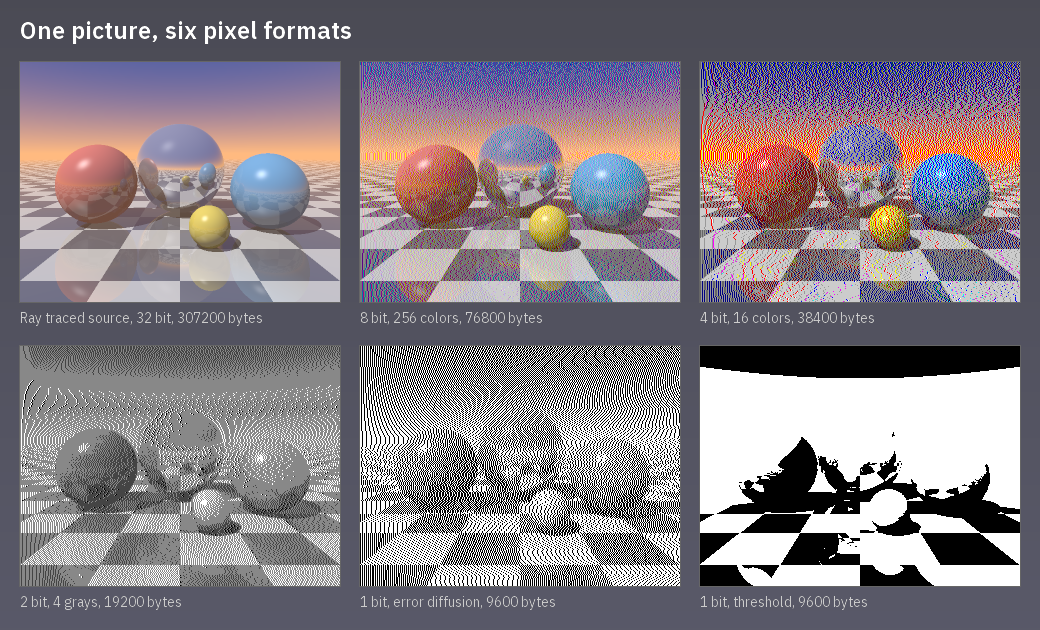
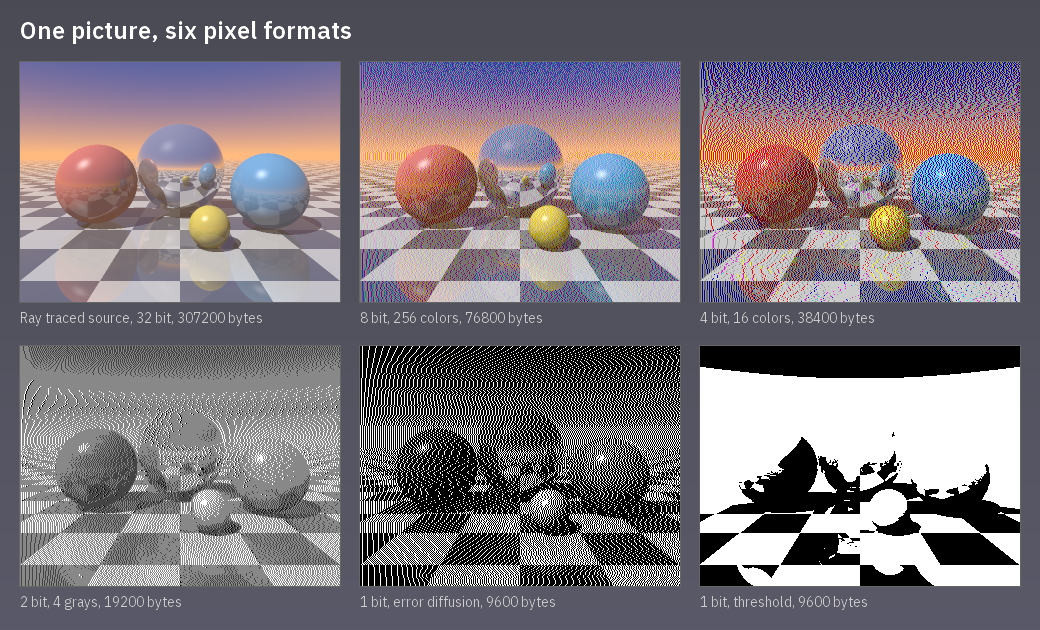
1-bit blit_RGBA_diffused_linear: sum the channel weights
The luminance test multiplied red by green (Rl * 2 * +Gl * 3), so a
pixel without red or without green never reached white. Add a
regression test, and use the linear diffusion for the 1-bit panel of
the dither example.

Changed region(s): [[0.3385, 0.5429, 0.6769, 0.9349]]

diff --git a/examples/dither/example_dither.cpp b/examples/dither/example_dither.cpp
@@ -18,7 +18,7 @@ using namespace constixel;
 
 //
 // A small ray tracer renders a scene into a RGBA buffer. The buffer is then blitted into every palette format with
-// the blit_RGBA functions, which shows what the same picture costs and looks like at 1, 2, 4 and 8 bits per pixel.
+// blit_RGBA_diffused_linear(), which shows what the same picture costs and looks like at 1, 2, 4 and 8 bits per pixel.
 //
 
 static constexpr int32_t W = 320;
@@ -148,12 +148,9 @@ int main(int argc, char **argv) {
     };
 
     // Dither the scene into a palette image and show what the image holds.
-    enum mode { NEAREST, DIFFUSED, DIFFUSED_LINEAR };
-    auto dithered = [&](auto &img, const char *name, mode m = DIFFUSED_LINEAR) {
-        if (m == DIFFUSED_LINEAR) {
+    auto dithered = [&](auto &img, const char *name, bool diffuse = true) {
+        if (diffuse) {
             img.blit_RGBA_diffused_linear(0, 0, W, H, scene.data(), W, H, W * 4);
-        } else if (m == DIFFUSED) {
-            img.blit_RGBA_diffused(0, 0, W, H, scene.data(), W, H, W * 4);
         } else {
             img.blit_RGBA(0, 0, W, H, scene.data(), W, H, W * 4);
         }
@@ -173,9 +170,9 @@ int main(int argc, char **argv) {
     static image<format_2bit, W, H, true> img2;
     dithered(img2, "2 bit, 4 grays");
     static image<format_1bit, W, H> img1;
-    dithered(img1, "1 bit, error diffusion", DIFFUSED);
+    dithered(img1, "1 bit, error diffusion");
     static image<format_1bit, W, H> img1t;
-    dithered(img1t, "1 bit, threshold", NEAREST);
+    dithered(img1t, "1 bit, threshold", false);
 
     return example::output(*canvas, argc, argv);
 }

diff --git a/tests/constixel_api_tests.cpp b/tests/constixel_api_tests.cpp
@@ -489,9 +489,24 @@ void test_convert() {
     }
 }
 
+// The 1-bit linear diffusion weighs red, green and blue as a sum: pure green and pure red reach white.
+void test_blit_diffused_linear_1bit() {
+    for (const size_t channel : {size_t{0}, size_t{1}}) {
+        std::array<uint8_t, 16 * 4> rgba{};
+        for (size_t i = 0; i < 16; i++) {
+            rgba[i * 4 + channel] = 0xFF;
+            rgba[i * 4 + 3] = 0xFF;
+        }
+        constixel::image<constixel::format_1bit, 16, 1> img;
+        img.blit_RGBA_diffused_linear(0, 0, 16, 1, rgba.data(), 16, 1, 16 * 4);
+        check(img.data_ref()[0] != 0 || img.data_ref()[1] != 0, __LINE__);
+    }
+}
+
 }  // namespace
 
 int main() {
+    test_blit_diffused_linear_1bit();
     test_image_basics();
     test_string_view();
     test_draw_string();

diff --git a/constixel.hpp b/constixel.hpp
@@ -1305,7 +1305,7 @@ class pixel_1bit : public format {
                 Rl = Rl + err_r;
                 Gl = Gl + err_g;
                 Bl = Bl + err_b;
-                const uint8_t n = (Rl * 2 * +Gl * 3 + Bl * 1) > 3.0f ? 1 : 0;
+                const uint8_t n = (Rl * 2 + Gl * 3 + Bl * 1) > 3.0f ? 1 : 0;
                 plot(pix, (x + static_cast<size_t>(r.x)), (y + static_cast<size_t>(r.y)), n);
                 const float c = 0.75;
                 err_r = std::clamp(Rl - ((n != uint8_t{0}) ? 1.0f : 0.0f), -c, c);
